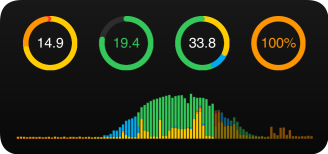
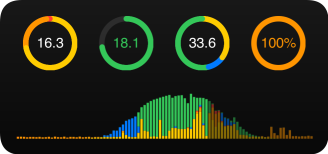
With time-range=today, display yesterday's production values

diff --git a/widget.js b/widget.js
@@ -70,7 +70,13 @@ const C = {
       consumption: 15, // kWh
       feed: 25, // kWh
       sumPerSegment: 1, // kWh
-    }
+    },
+    // colors
+    colors: {
+      photovoltaics: {
+        production: new Color('#aaaaaa', 0.5),
+      },
+    },
   },
 };
 
@@ -226,11 +232,11 @@ async function getSeriesValues(series) {
         const value = results[timestamp] > 0 ? results[timestamp] : 0;
         if (timestamp >= timestampStart) {
           ra.all[i] = value;
-          if (timestamp < R.time.timestampToday0h) {
-            ra.yesterday[i] = value;
-          } else if (timestamp < timestampEnd) {
-            ra.today[i] = value;
-          }
+        }
+        if (timestamp < R.time.timestampToday0h) {
+          ra.yesterday[i] = value;
+        } else if (timestamp < timestampEnd) {
+          ra.today[i] = value;
         }
       }
       return ra;
@@ -475,23 +481,40 @@ function imageForBatteryChargeLevel(size) {
 
 // timeline --- consumption, grid feed, battery charge
 function imageForProductionConsumptionMixTimeline(size) {
+  const segments = [
+    // today
+    { values: V.data.series.grid.feed.values.today, color: V.data.series.grid.feed.color },
+    { values: V.data.series.battery.charge.values.today, color: V.data.series.battery.charge.color },
+    { values: V.data.series.grid.consume.values.today, color: V.data.series.grid.consume.color },
+    { values: V.data.series.battery.consume.values.today, color: V.data.series.battery.consume.color },
+    { values: V.data.series.photovoltaics.consume.values.today, color: V.data.series.photovoltaics.consume.color },
+  ].concat(
+    (() => {
+      switch (R.parameters.timeRange) {
+        default:
+        case 'last-24h':
+          return [
+            // yesterday
+            { values: V.data.series.grid.feed.values.yesterday, color: new Color(V.data.series.grid.feed.color.hex, 0.5) },
+            { values: V.data.series.battery.charge.values.yesterday, color: new Color(V.data.series.battery.charge.color.hex, 0.5) },
+            { values: V.data.series.grid.consume.values.yesterday, color: new Color(V.data.series.grid.consume.color.hex, 0.5) },
+            { values: V.data.series.battery.consume.values.yesterday, color: new Color(V.data.series.battery.consume.color.hex, 0.5) },
+            { values: V.data.series.photovoltaics.consume.values.yesterday, color: new Color(V.data.series.photovoltaics.consume.color.hex, 0.5) }
+          ];
+        case 'today':
+          return [
+            // yesterday
+            { values: V.data.series.grid.feed.values.yesterday, color: C.data.colors.photovoltaics.production },
+            { values: V.data.series.battery.charge.values.yesterday, color: C.data.colors.photovoltaics.production },
+            { values: V.data.series.photovoltaics.consume.values.yesterday, color: C.data.colors.photovoltaics.production }
+          ];
+      }
+    })());
+
   return imageWithMultiSegmentChart(
     size,
     { x: 0, y: 0, width: size.width, height: size.height },
-    [
-      // today
-      { values: V.data.series.grid.feed.values.today, color: V.data.series.grid.feed.color },
-      { values: V.data.series.battery.charge.values.today, color: V.data.series.battery.charge.color },
-      { values: V.data.series.grid.consume.values.today, color: V.data.series.grid.consume.color },
-      { values: V.data.series.battery.consume.values.today, color: V.data.series.battery.consume.color },
-      { values: V.data.series.photovoltaics.consume.values.today, color: V.data.series.photovoltaics.consume.color },
-      // yesterday
-      { values: V.data.series.grid.feed.values.yesterday, color: new Color(V.data.series.grid.feed.color.hex, 0.5) },
-      { values: V.data.series.battery.charge.values.yesterday, color: new Color(V.data.series.battery.charge.color.hex, 0.5) },
-      { values: V.data.series.grid.consume.values.yesterday, color: new Color(V.data.series.grid.consume.color.hex, 0.5) },
-      { values: V.data.series.battery.consume.values.yesterday, color: new Color(V.data.series.battery.consume.color.hex, 0.5) },
-      { values: V.data.series.photovoltaics.consume.values.yesterday, color: new Color(V.data.series.photovoltaics.consume.color.hex, 0.5) },
-    ],
+    segments,
     C.data.max.sumPerSegment,
     // let the timeline start at 0:00 today
     (R.time.timestampToday0h - R.time.timestampNowMinus24h) / R.time.delta15min

diff --git a/README.md b/README.md
@@ -16,17 +16,25 @@ Styles - selected via widget parameter:
 
 - Medium:
 
-  - style=1
+  - `style=1;time-range=last-24h`
 
     ![](readme-assets/example-medium-1.png)
 
-  - style=2
+  - `style=1;time-range=today`
+
+    ![](readme-assets/example-medium-1t.png)
+
+  - `style=2;time-range=last-24h`
 
     ![](readme-assets/example-medium-2.png)
 
-  - style=3
+  - `style=3;time-range=last-24h`
 
     ![](readme-assets/example-medium-3.png)
+
+  - `style=3;time-range=today`
+
+    ![](readme-assets/example-medium-3t.png)
 
 Visualized data:
 
